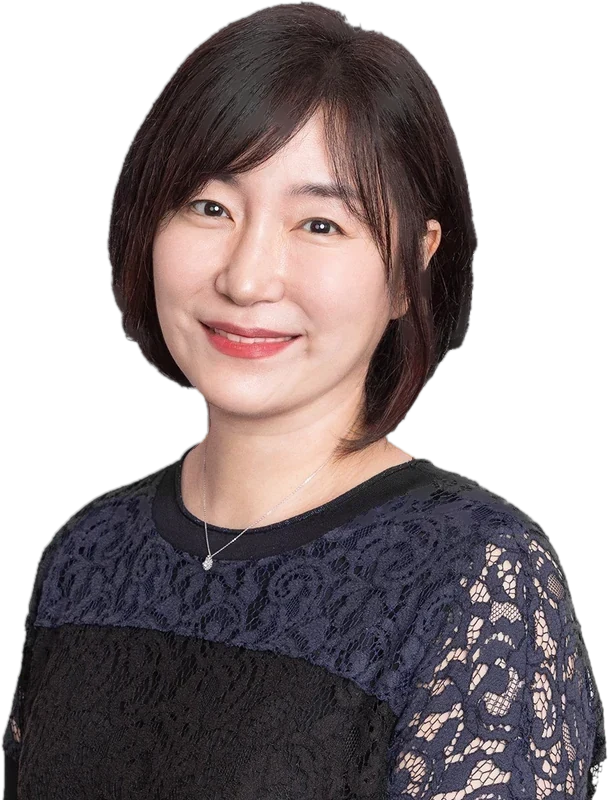
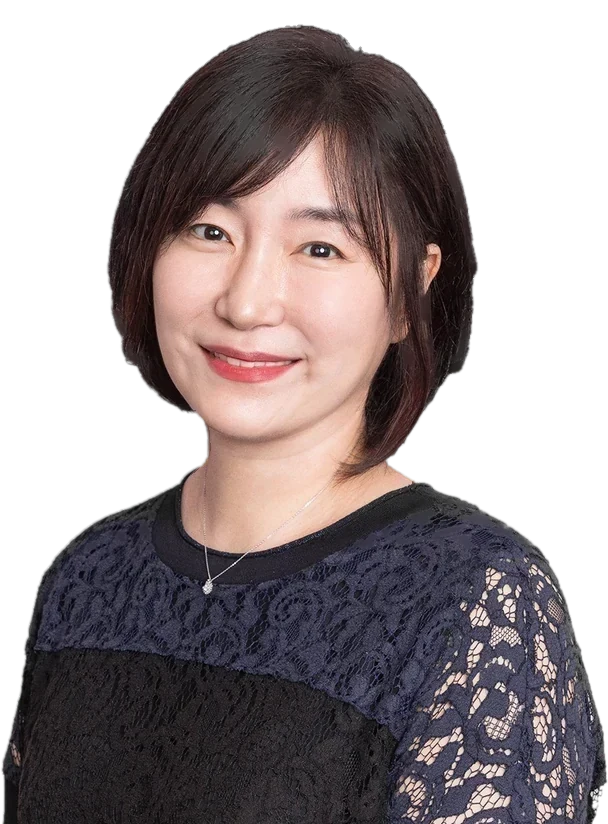
프로필 사진 정수리 부분 복원

Changed region(s): [[0.0312, 0.0, 1.0, 1.0], [0.0, 0.8438, 0.0312, 0.9375]]

diff --git a/index.html b/index.html
@@ -403,7 +403,7 @@ footer .brand b{color:var(--band-text);font-size:20px}
   <section id="consultant" class="consultant-sec">
     <div class="wrap consultant">
       <figure class="c-visual">
-        <img src="profile.webp?v=6" alt="김인선 대표 컨설턴트" width="608" height="798" loading="lazy">
+        <img src="profile.webp?v=7" alt="김인선 대표 컨설턴트" width="608" height="824" loading="lazy">
         <figcaption>KIM IN SUN</figcaption>
       </figure>
       <div class="c-text">
